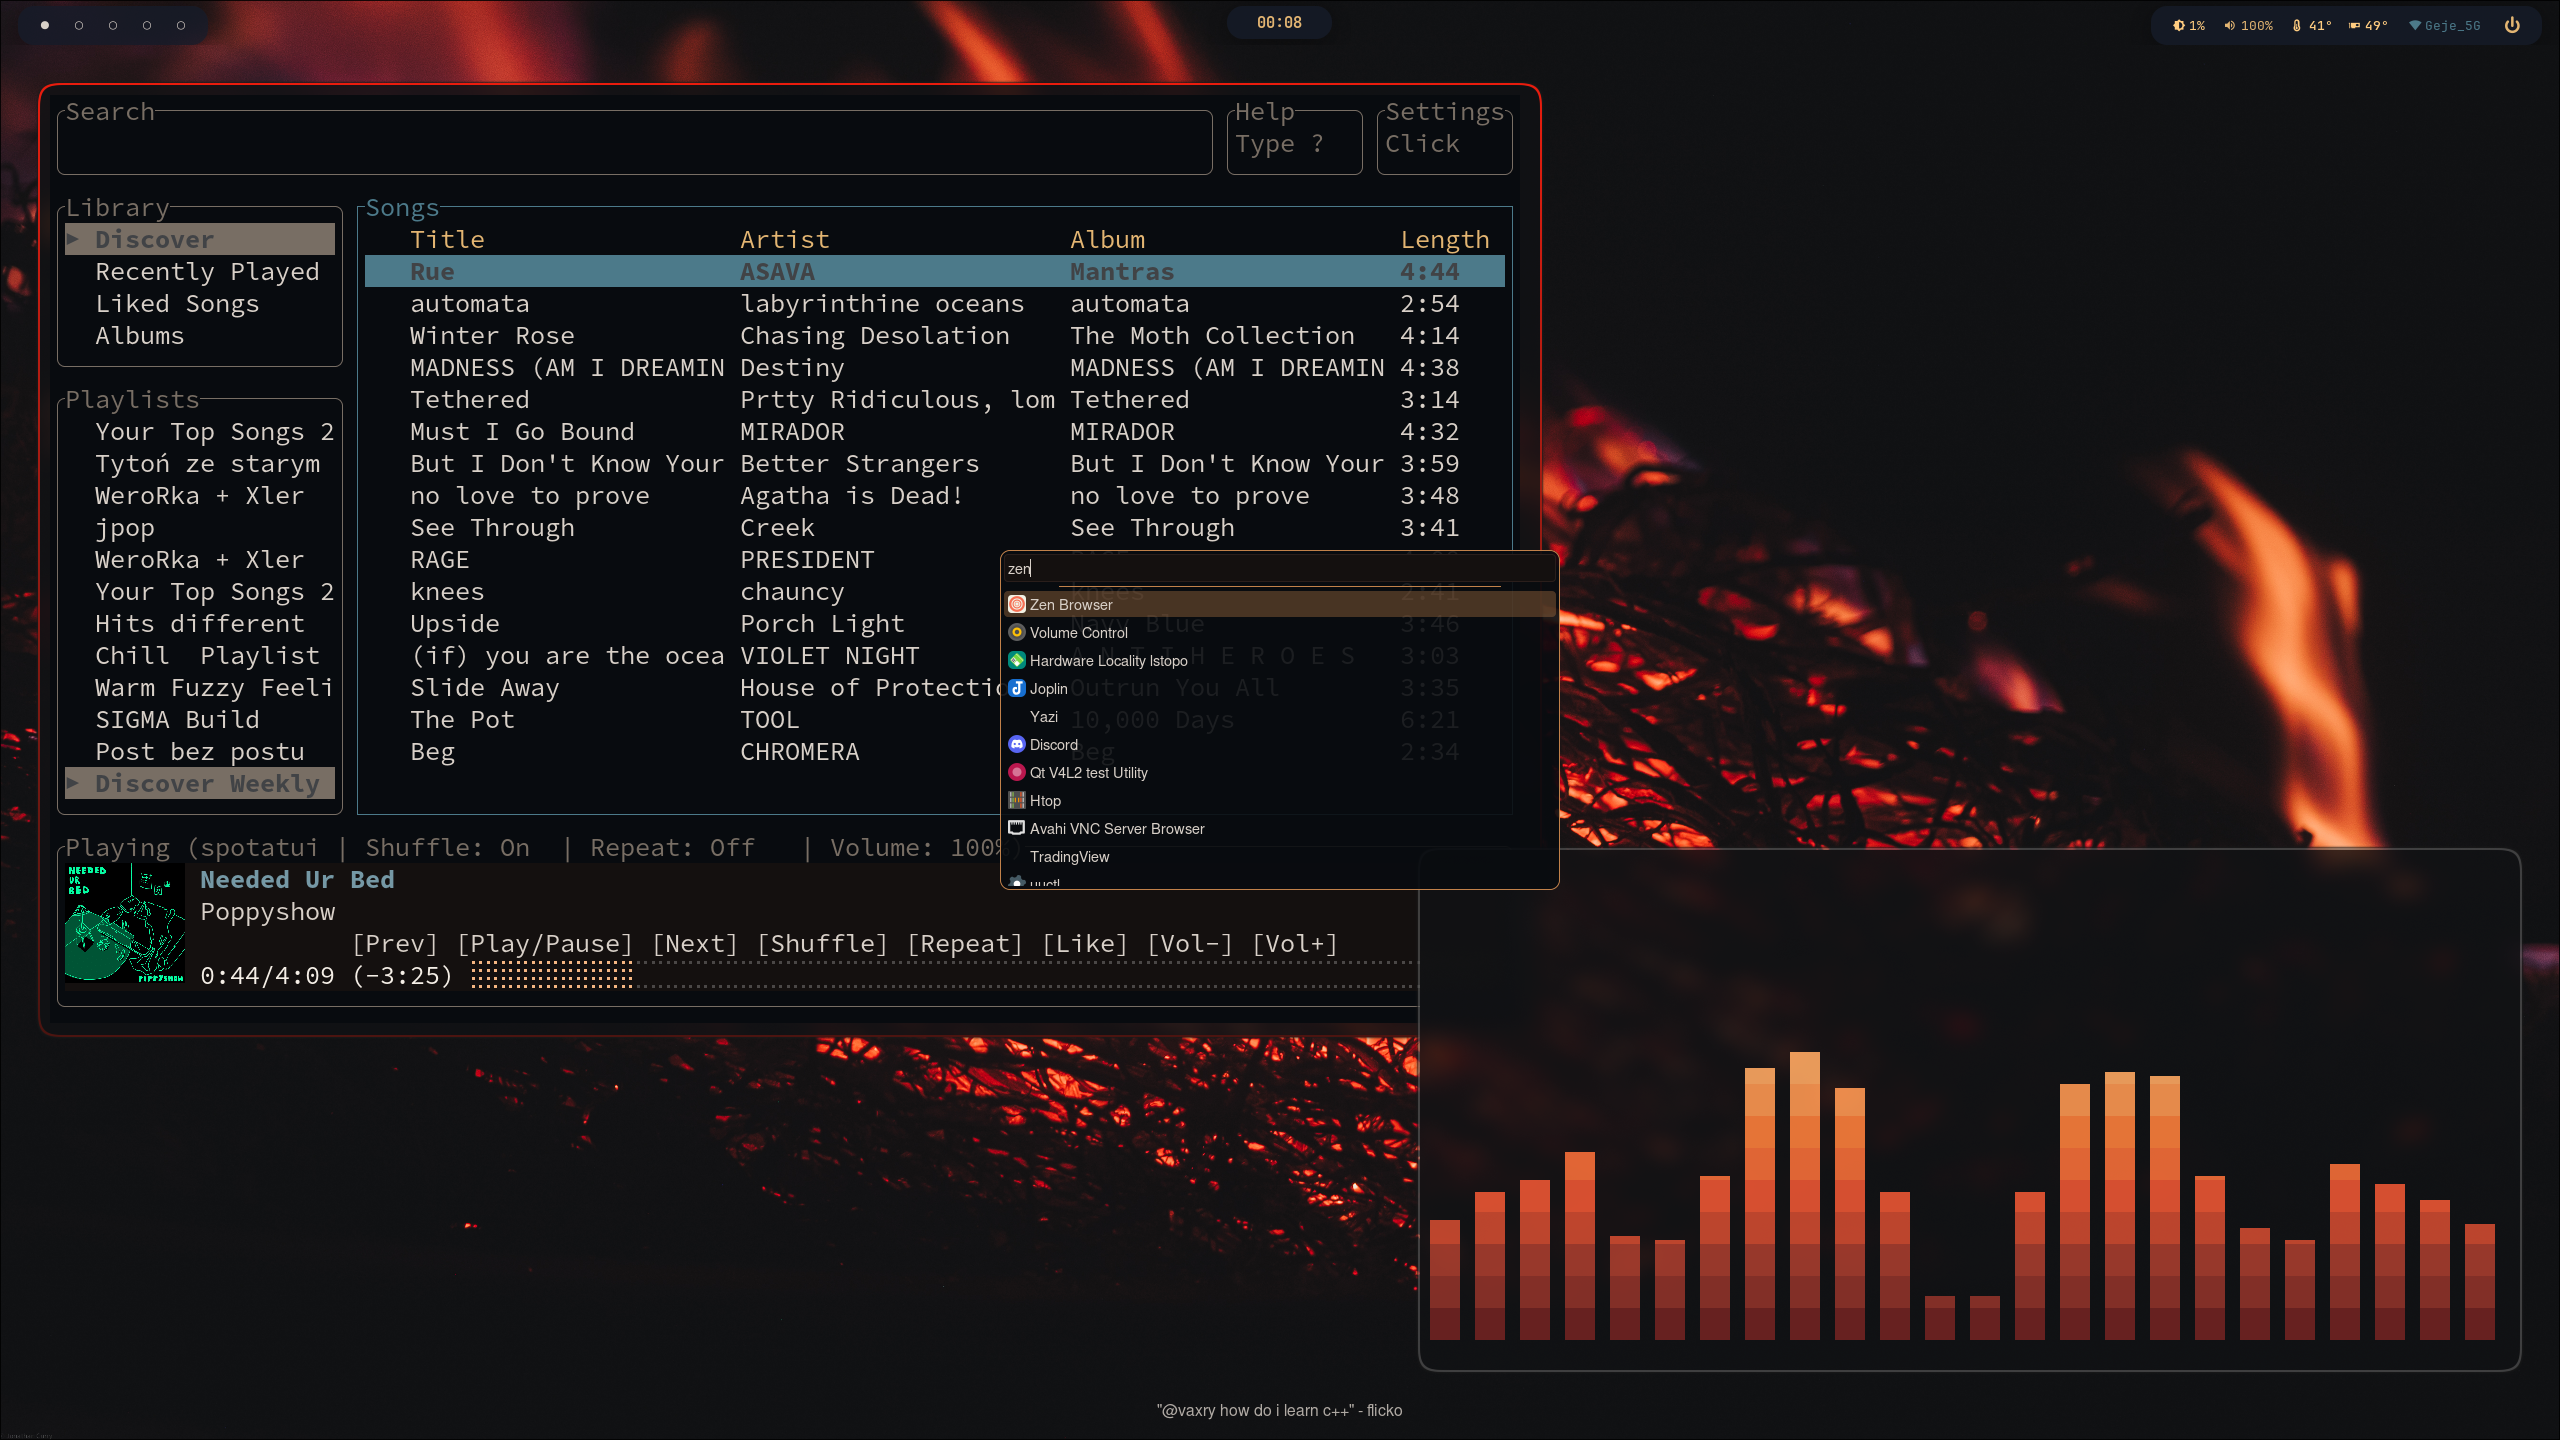
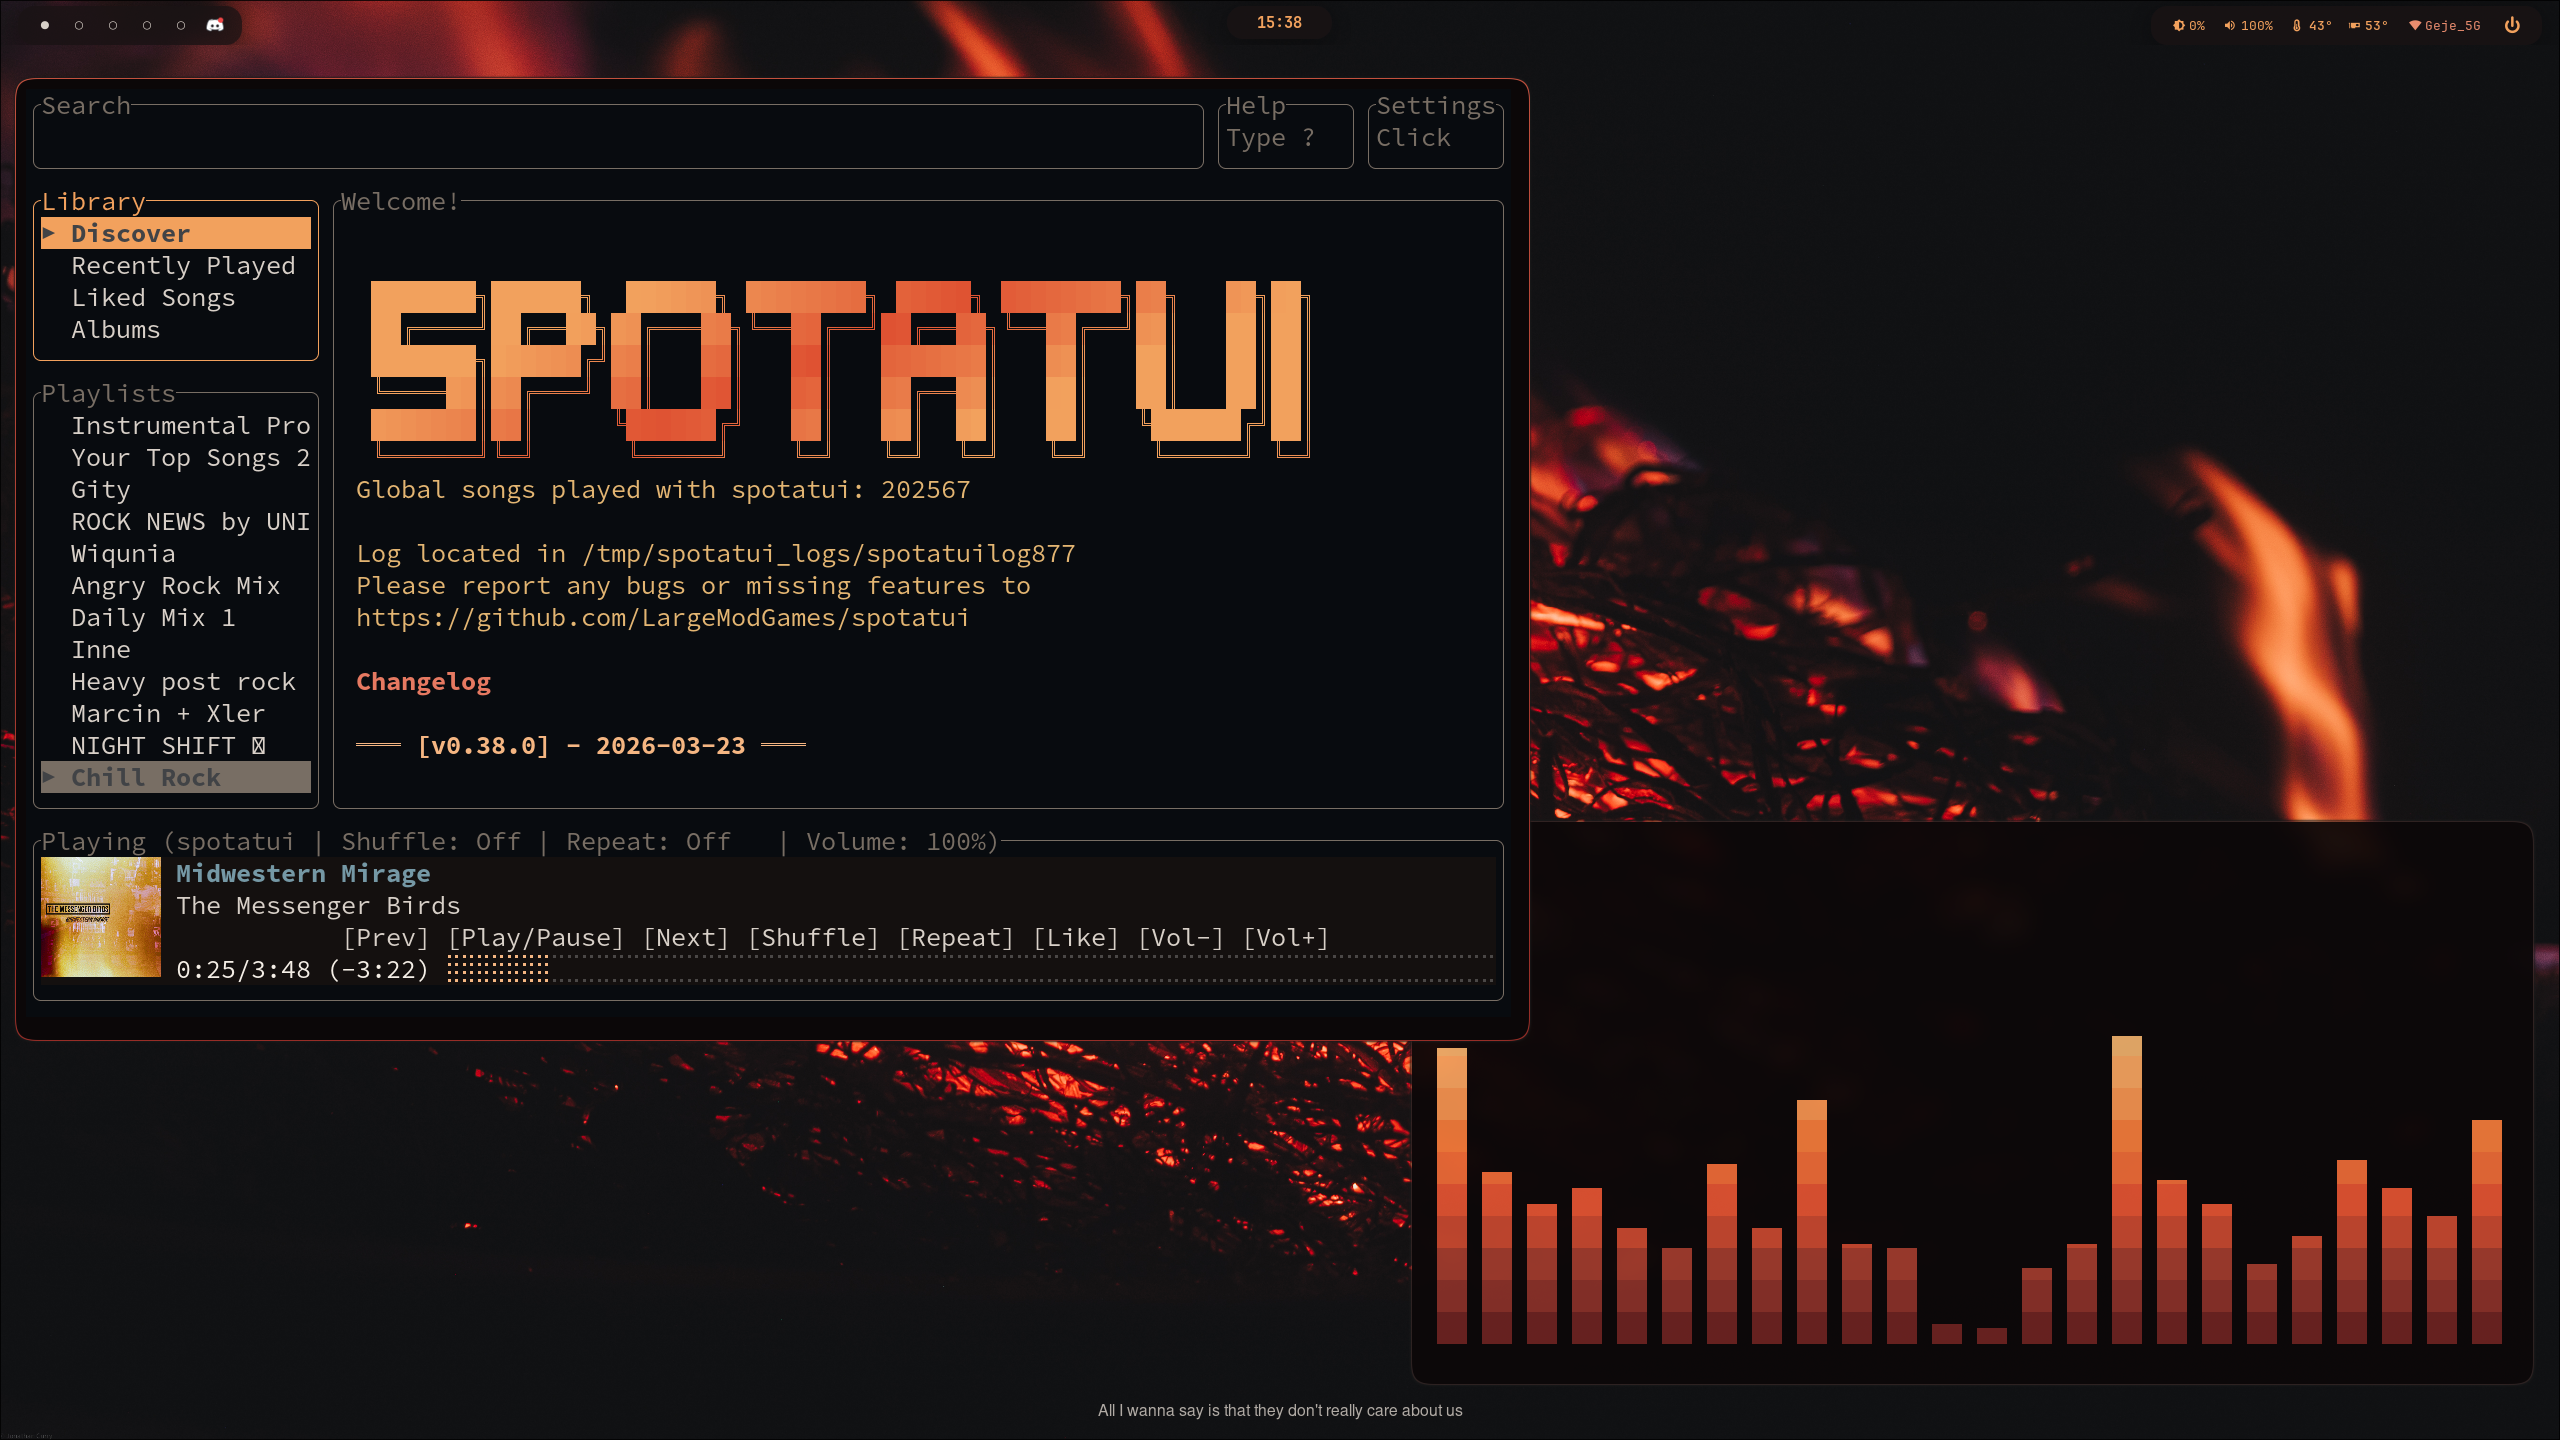
Update README screenshots

diff --git a/README.md b/README.md
@@ -9,6 +9,8 @@ This repository contains my user configs, scripts, package lists, wallpaper, and
 ### Desktop
 ![Hyprland desktop 1](assets/screenshots/hypr1.png)
 ![Hyprland desktop 2](assets/screenshots/hypr2.png)
+![Hyprland desktop 3](assets/screenshots/hypr3.png)
+![Hyprland desktop 4](assets/screenshots/hypr4.png)
 
 ## Included
 